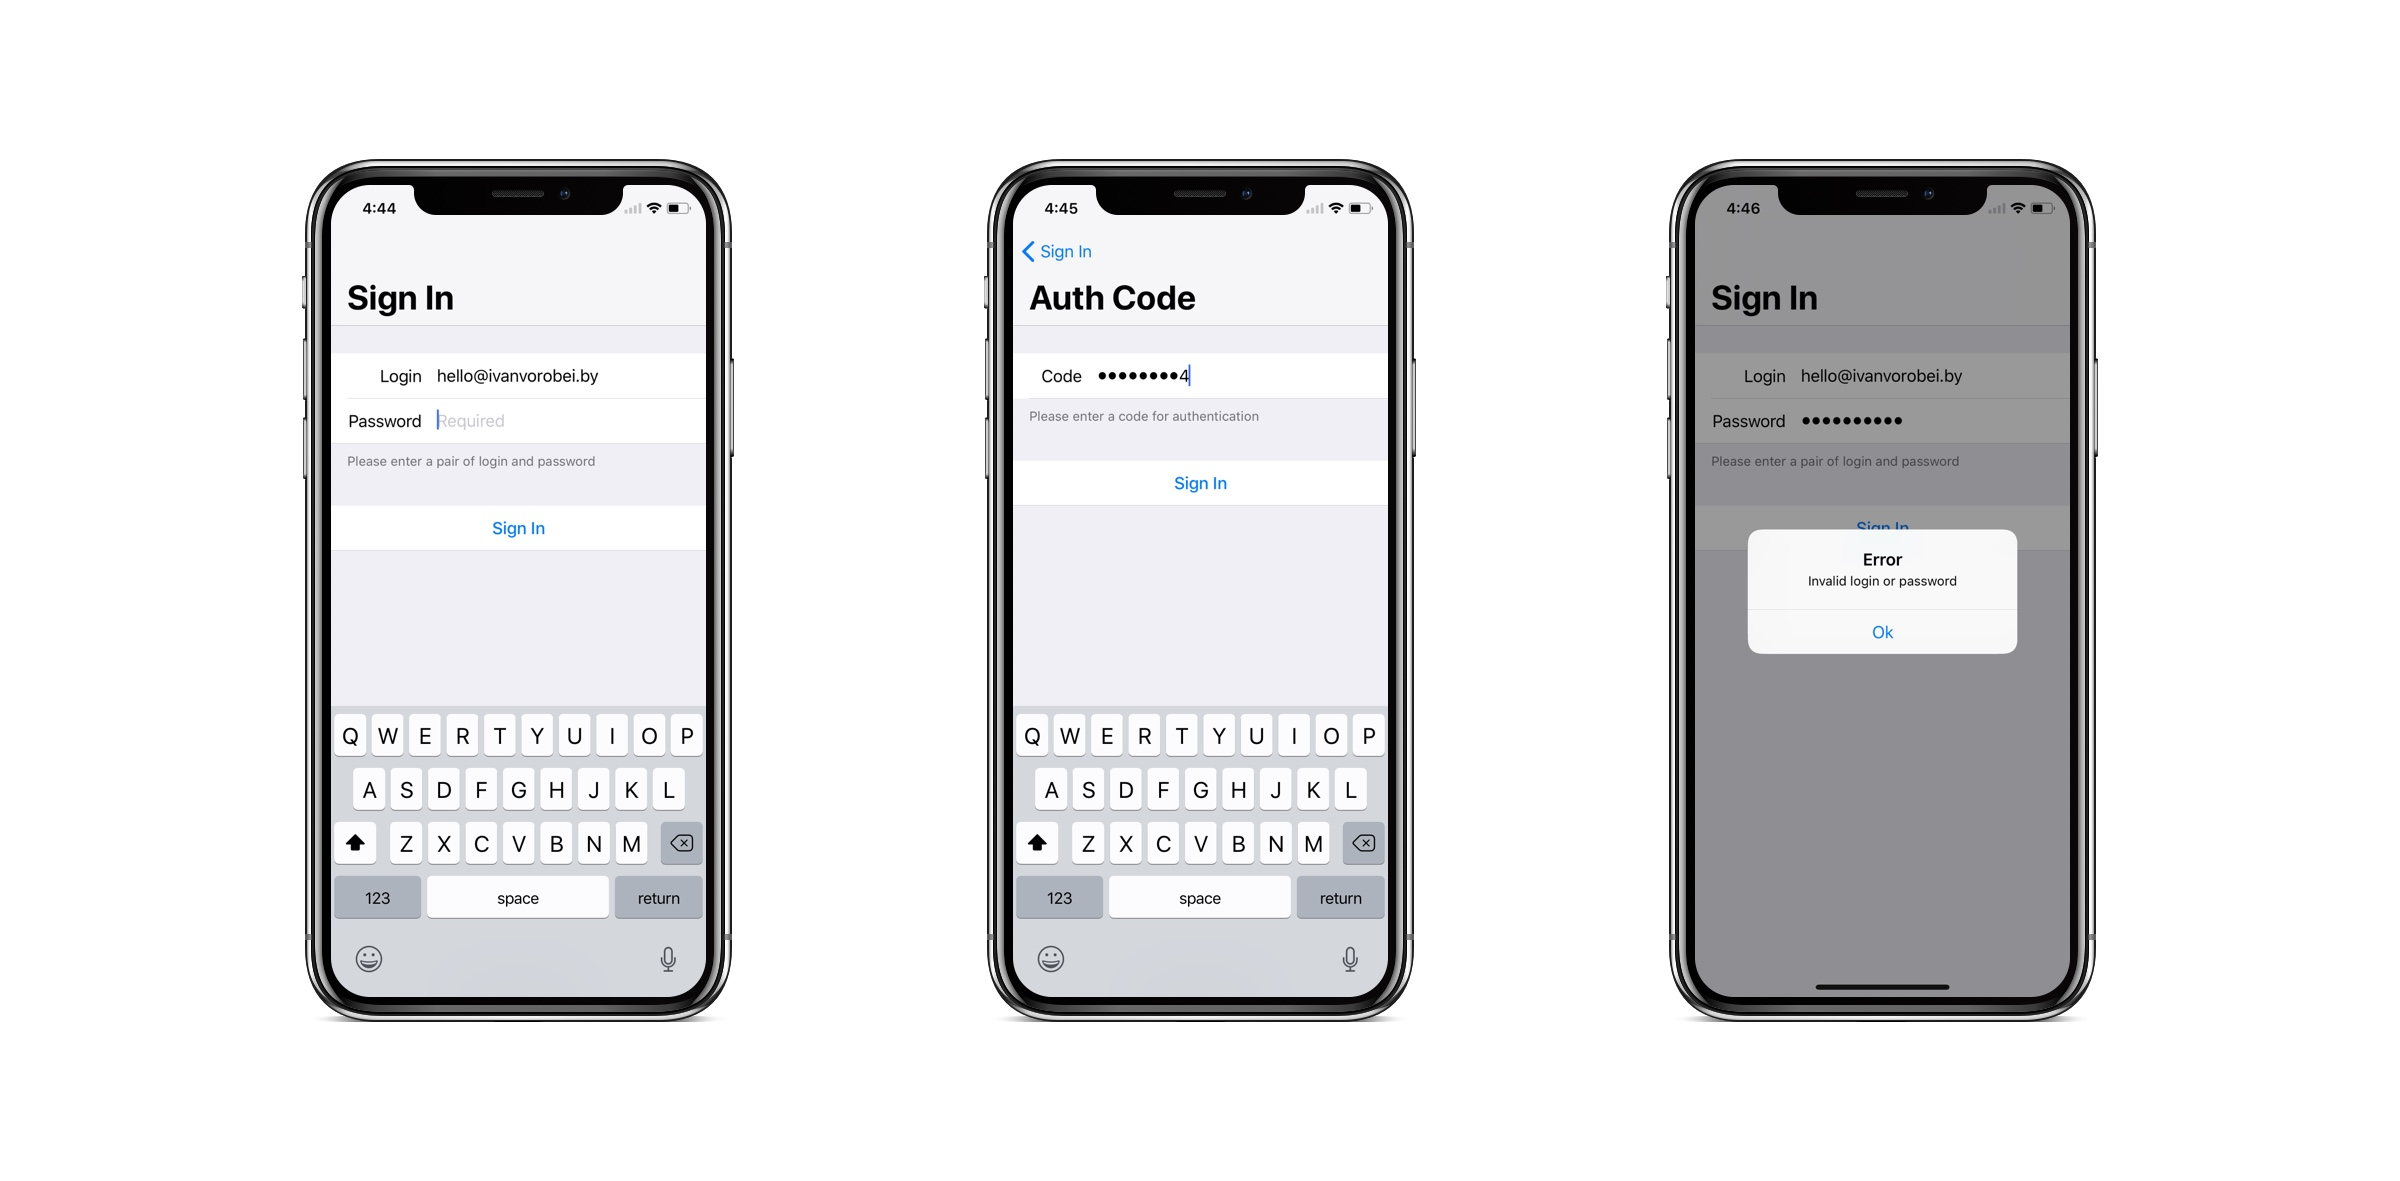
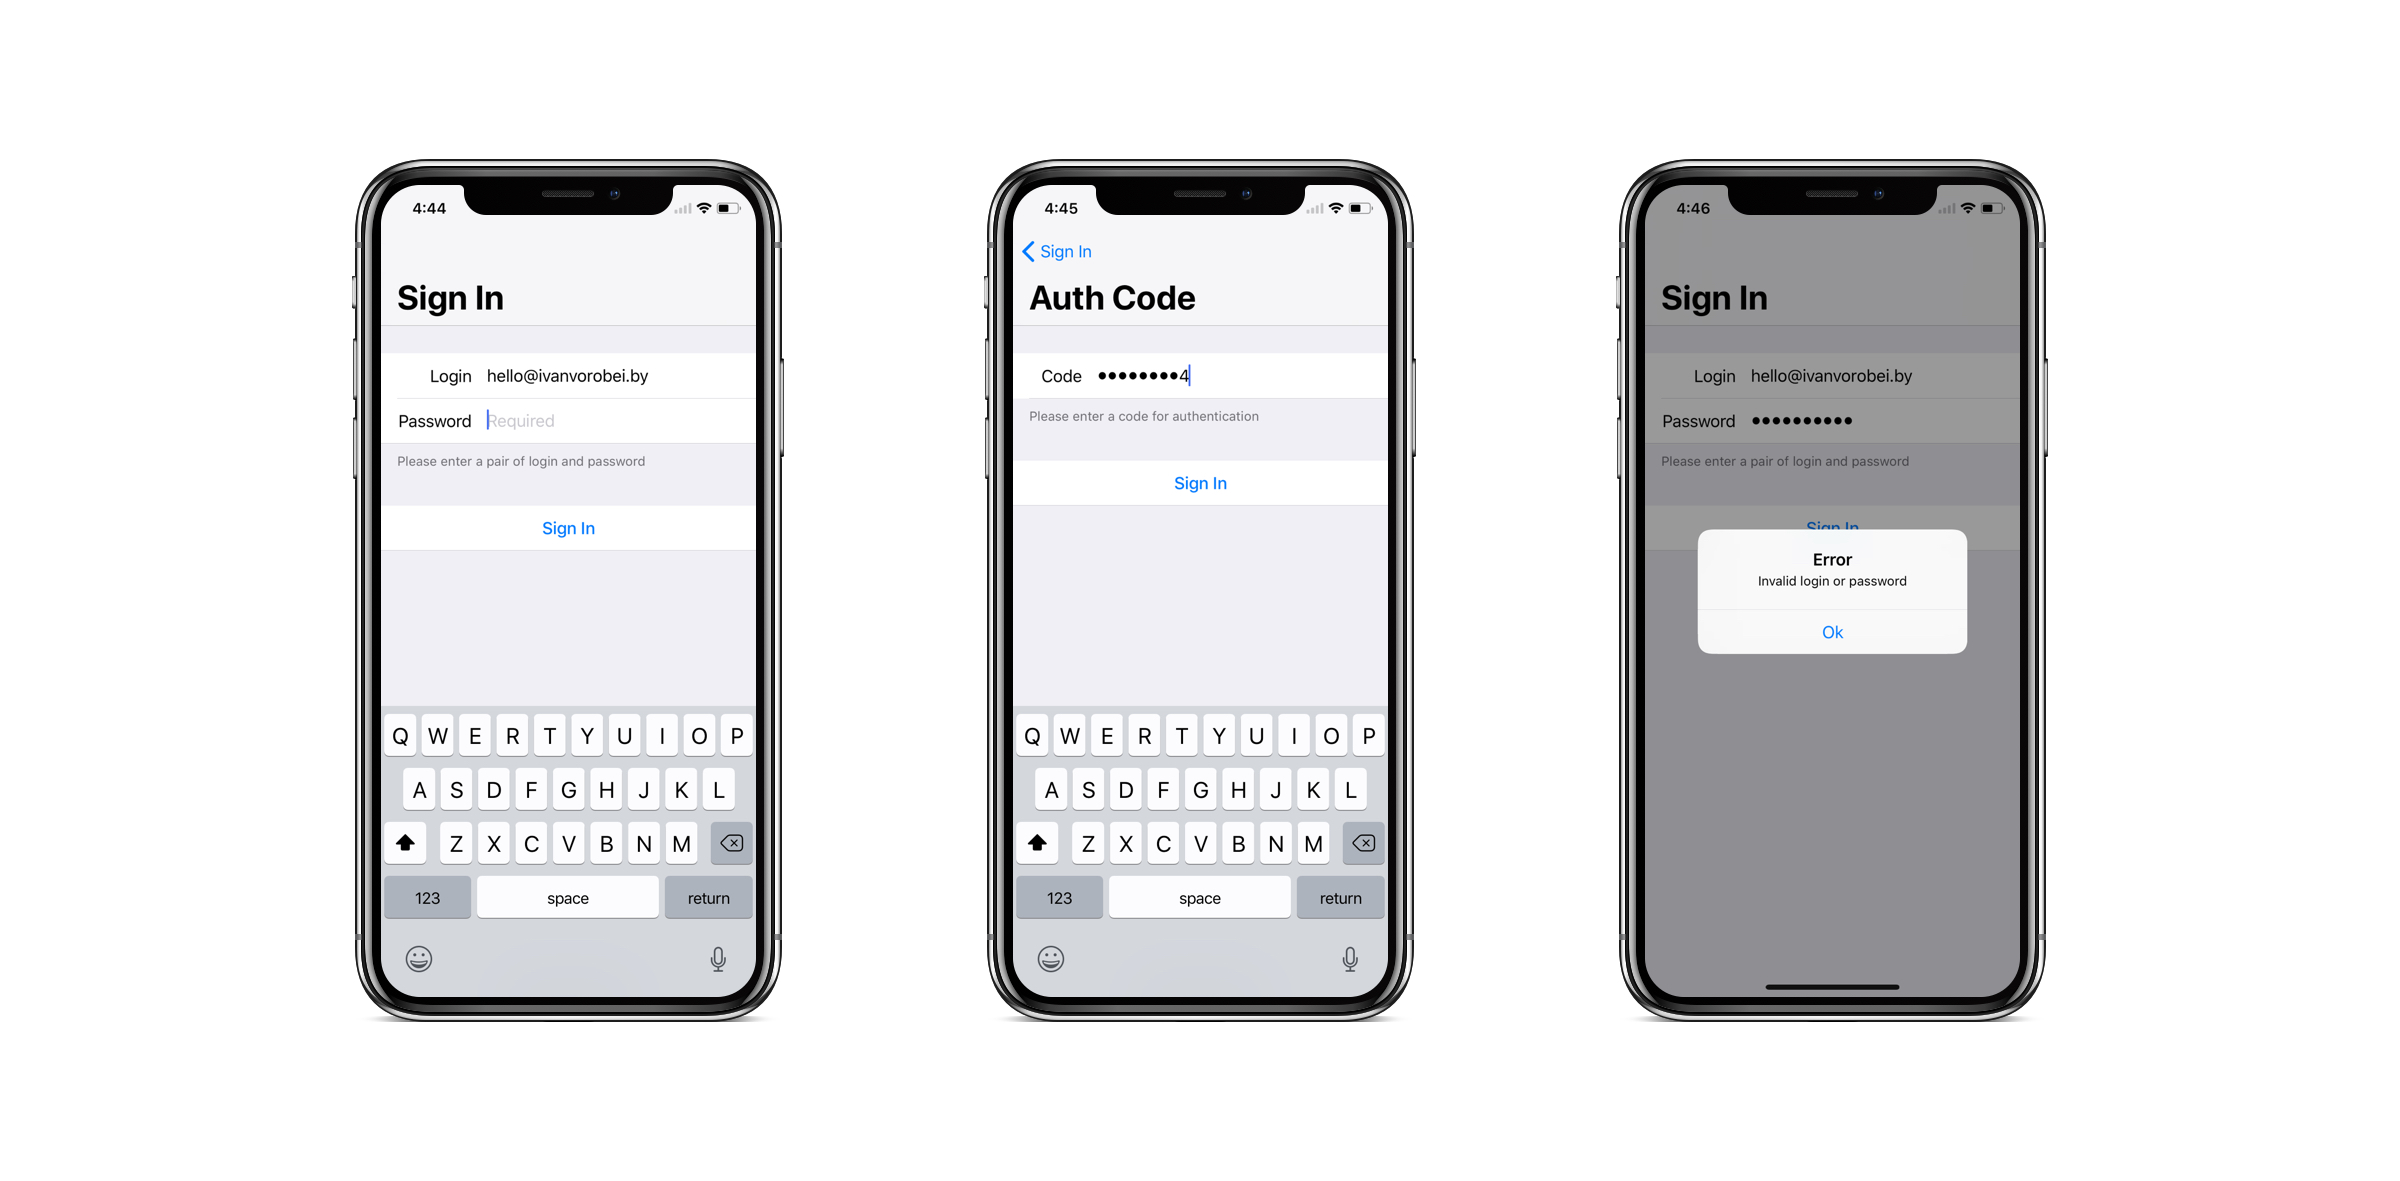
Update Readme

Changed region(s): [[0.125, 0.1219, 0.3438, 0.884], [0.6562, 0.1219, 0.875, 0.884], [0.1875, 0.4268, 0.25, 0.4572]]

diff --git a/README.md b/README.md
@@ -2,8 +2,7 @@
 
 ## About
 This project simplifies work with forms of authorization and uses native elements that Apple recommends and uses. It may seem that such elements are ready in the system, but as it turned out - no. I did a lot of work to repeat the visual reference
-
-<img src="https://cdn.rawgit.com/IvanVorobei/RequestPermission/e85814ac/resources/request-permission%20-%20mockup_preview.gif" width="600">
+<img src="https://cdn.rawgit.com/IvanVorobei/NativeLogin/facb1610/resources/native-login%20-%20screens.jpg"/>
 
 ## Requirements
 Xcode 9 and Swift 4. Ready for use on iOS 9+
@@ -31,7 +30,6 @@ override func login(with code: String, complection: @escaping (SPOauthState) -> 
 }
 ```
 Inside the functions, you should do the work with authorization (for example, http requests) and at the end of authorization call the package. Pass in complection status of authorization
-<img src="https://cdn.rawgit.com/IvanVorobei/NativeLogin/9937ab4f/resources/native-login%20-%20promo.jpg"/>
 
 ## Customize
 If you want to customize the content (keyboard type or text) you should ovveride property 
